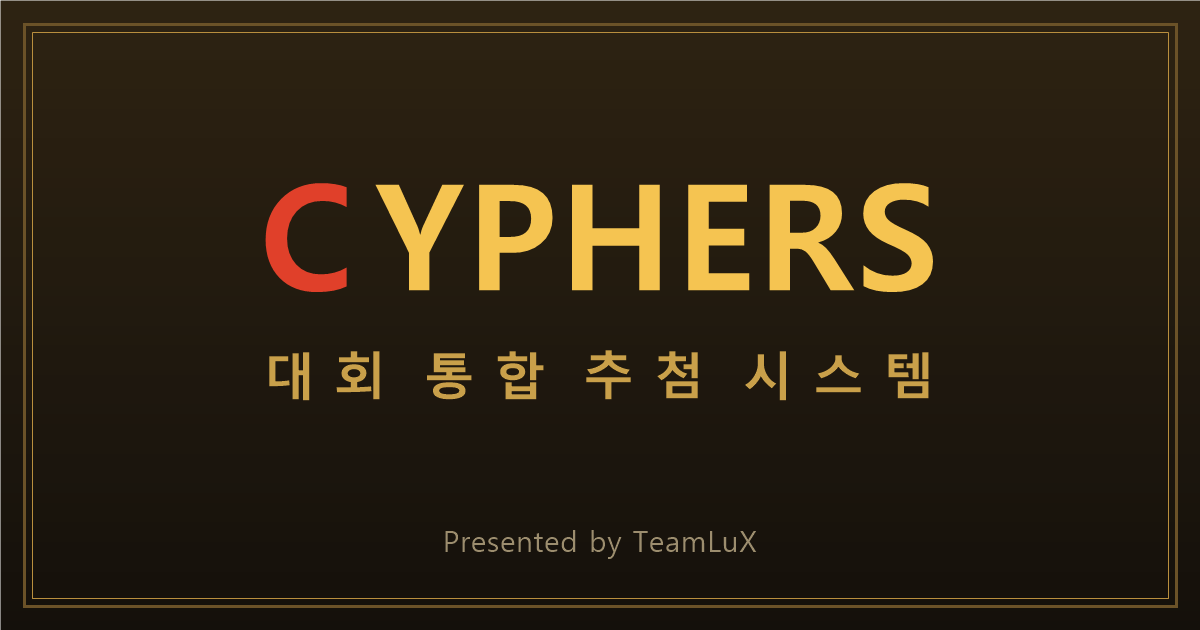
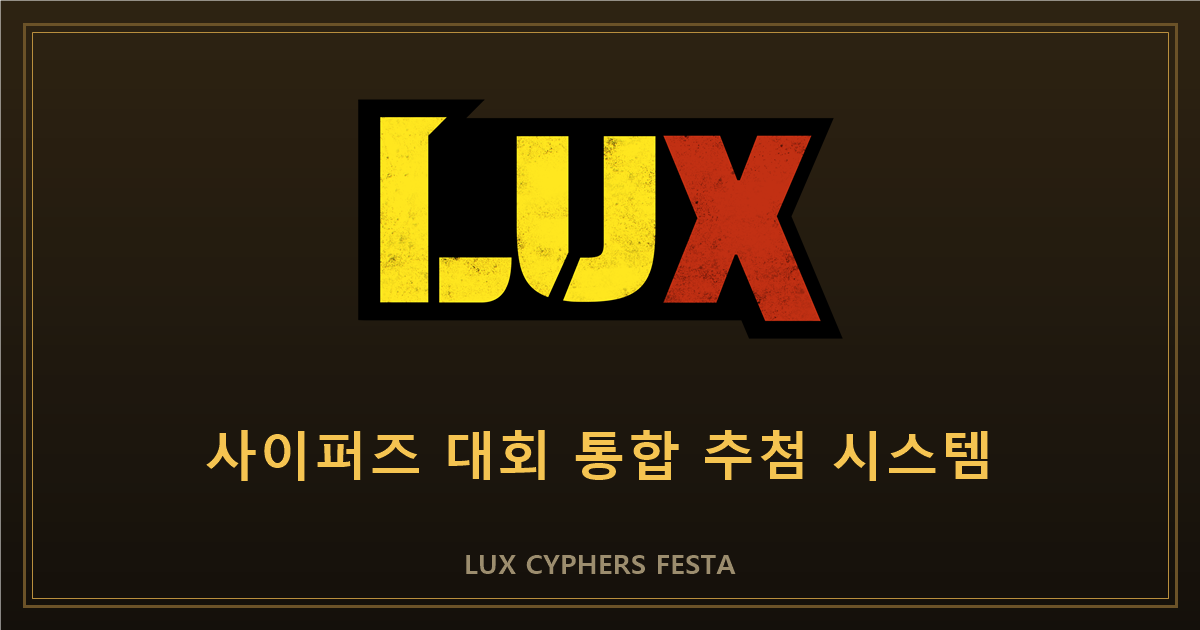
파비콘(LUX C 로고) 및 LUX BI 적용 링크 미리보기 이미지

diff --git a/index.html b/index.html
@@ -5,6 +5,11 @@
 <meta name="viewport" content="width=device-width, initial-scale=1.0">
 <title>사이퍼즈 대회 통합 추첨 시스템</title>
 
+<!-- 파비콘 (LUX C 로고) -->
+<link rel="icon" type="image/png" sizes="32x32" href="favicon-32.png">
+<link rel="icon" type="image/png" sizes="192x192" href="favicon-192.png">
+<link rel="apple-touch-icon" href="apple-touch-icon.png">
+
 <!-- 링크 공유 미리보기 (카카오톡·디스코드 등) -->
 <meta name="description" content="맵 · 코인토스 · 부가몬스터 · 대진 추첨을 한 화면에서. BO1/BO3/BO5 일괄 추첨과 추첨 기록 지원.">
 <meta name="theme-color" content="#f5c451">